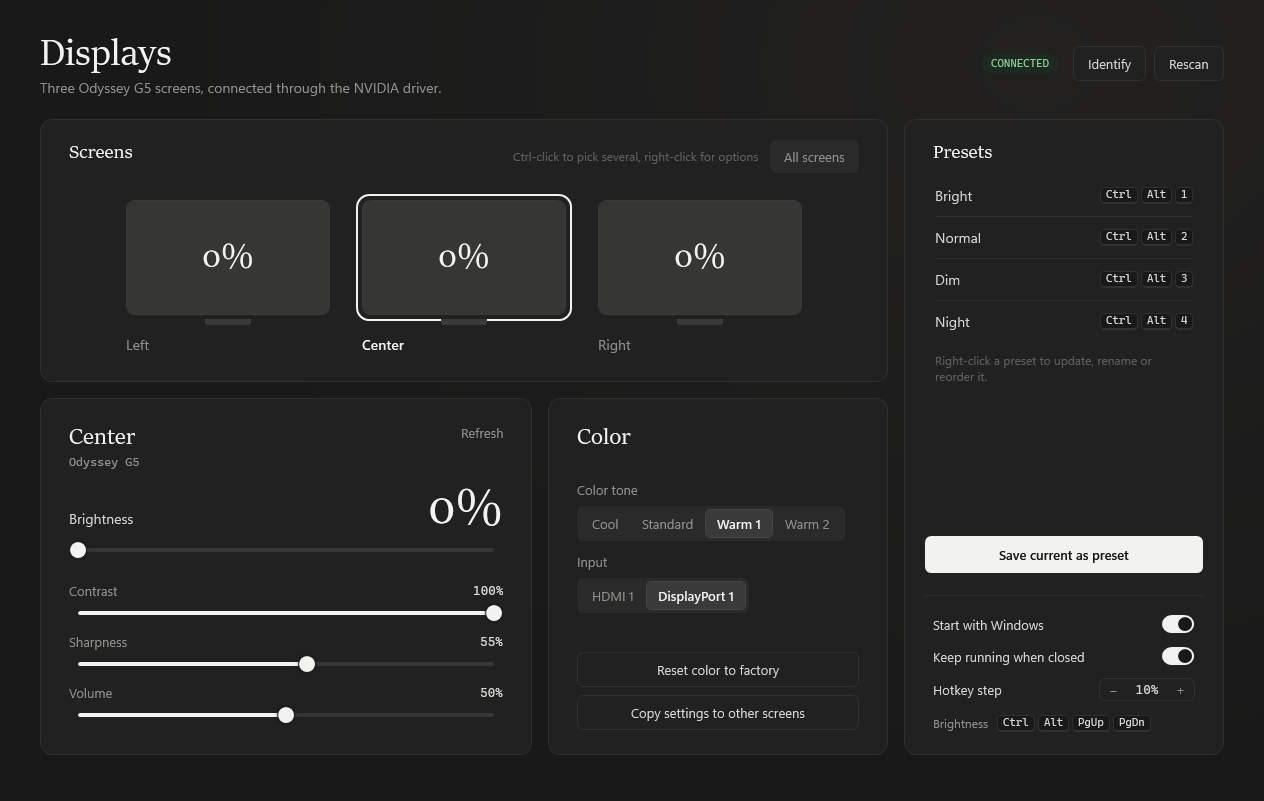
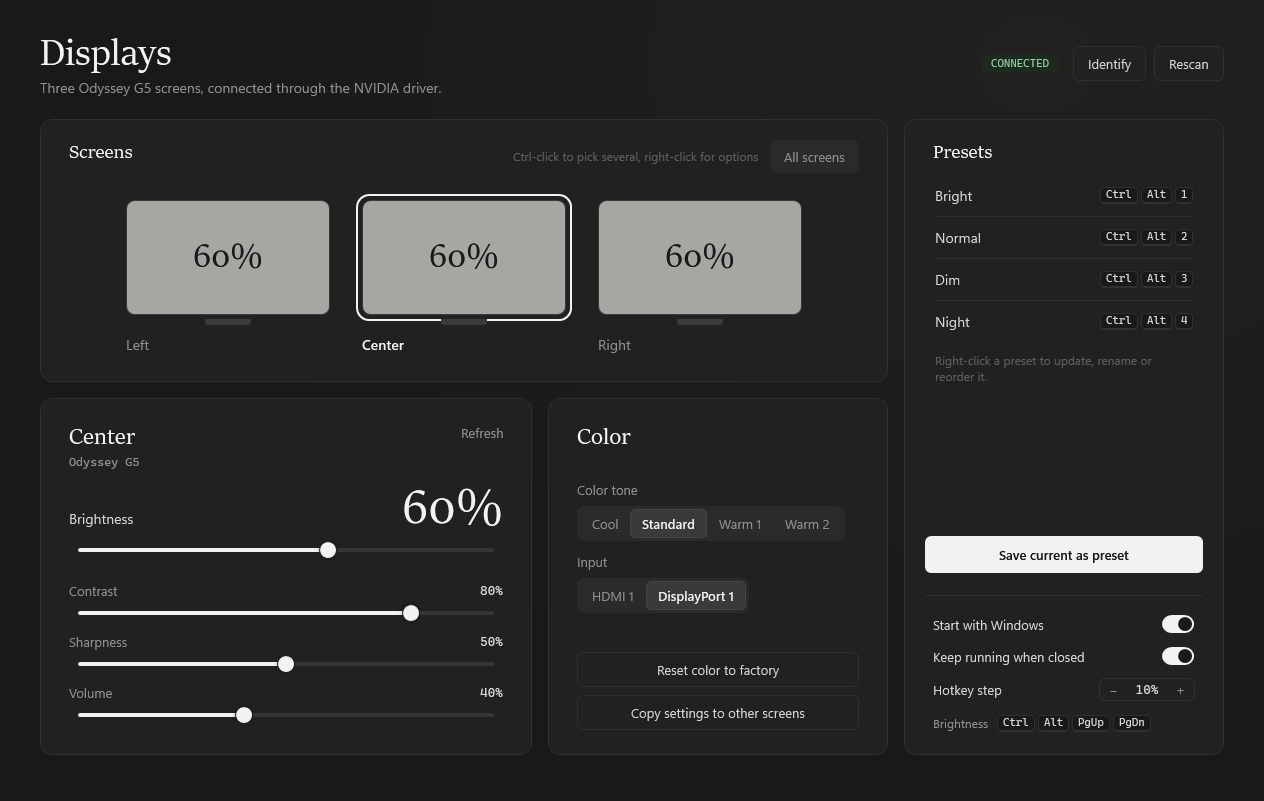
Docs: screenshots with sample brightness values
Screenshot mode (/snapshot with /demo) now shows typical daytime values
instead of the screens' current settings. Display only; nothing is sent
to the monitors.

diff --git a/src/MainWindow.cs b/src/MainWindow.cs
@@ -324,6 +324,7 @@ namespace MonitorControl
                 subtitle.Text = string.Format("{0}{1} screen{2}, connected through {3}.", Count(found.Count), model, found.Count == 1 ? "" : "s", via);
             }
             SetStatus("");
+            if (snapshotPath != null && Theme.HideSerials) ShowSampleValues();
             if (snapshotPath != null) TakeSnapshot();
         }
 
@@ -338,6 +339,22 @@ namespace MonitorControl
             if (count == 3) return new[] { "Left", "Center", "Right" }[m.Number - 1];
             if (count == 2) return new[] { "Left", "Right" }[m.Number - 1];
             return m.DefaultName;
+        }
+
+        // Docs screenshots (/snapshot ... /demo): typical daytime values instead of whatever the
+        // screens happen to be set to. Only the display cache changes; nothing is sent to monitors.
+        void ShowSampleValues()
+        {
+            var sample = new Dictionary<byte, int> { { 0x10, 60 }, { 0x12, 80 }, { 0x87, 50 }, { 0x62, 40 } };
+            foreach (var m in monitors)
+            {
+                foreach (var kv in sample)
+                    if (m.Supports(kv.Key)) m.SetCached(kv.Key, (int)Math.Round(kv.Value * m.Max(kv.Key) / 100.0));
+                var tone = m.Choices(Feature.ByCode(0x14)).FirstOrDefault(c => c.Value == "Standard");
+                if (tone.Value != null) m.SetCached(0x14, tone.Key);
+            }
+            RefreshTiles();
+            BuildAdjust();
         }
 
         void TakeSnapshot()
